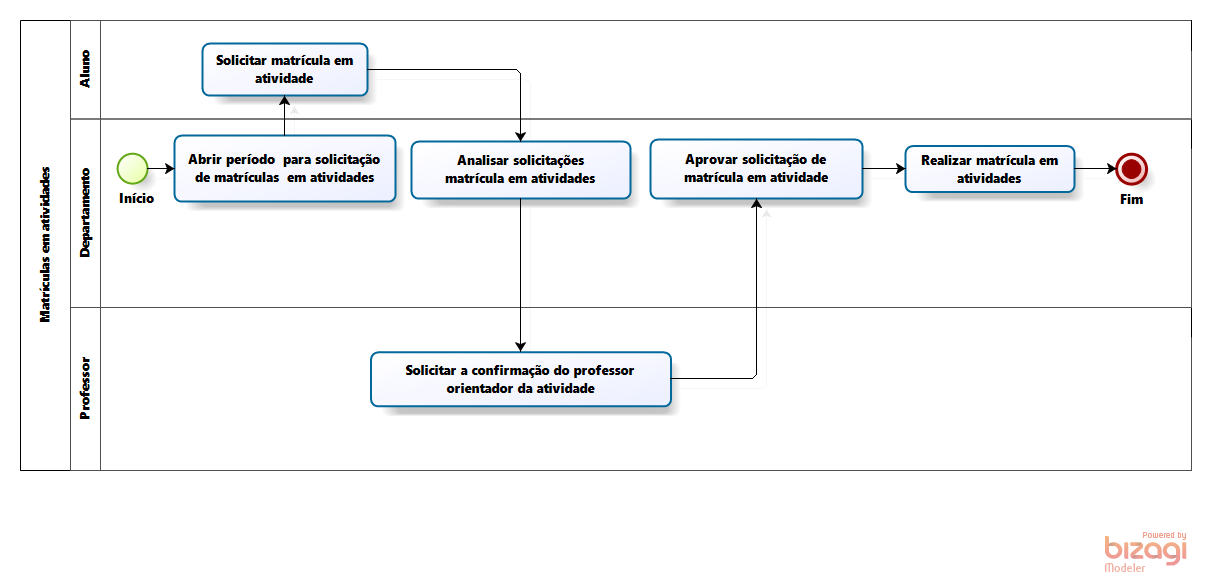
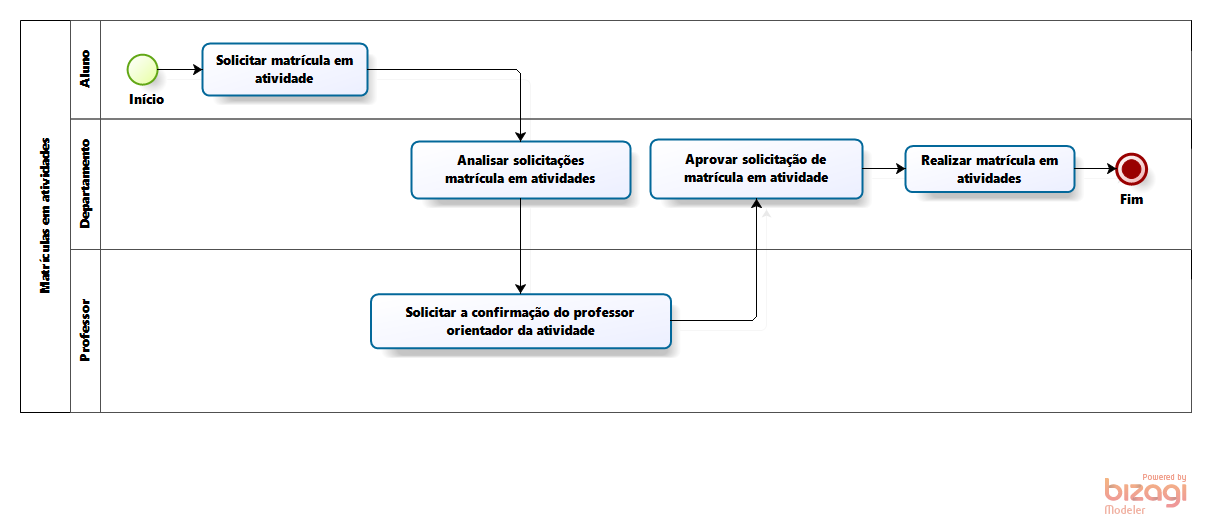
Matriculas_em_Atividades.png atualizados

diff --git a/Publicações do Padrão Bizagi/Matriculas em Atividades/libs/js/json/configuration.json.js b/Publicações do Padrão Bizagi/Matriculas em Atividades/libs/js/json/configuration.json.js
@@ -1,1 +1,1 @@
-Bizagi.AppModel = {"personalized":false,"userLogoName":"\\libs\\img\\biz-ex-logo.png","bizagiUrl":"http://www.bizagi.com","productName":"Bizagi Process Modeler","modelName":"Matriculas em Atividades","publishDate":"29/02/2020 13:44:15","pages":[{"id":"8dcc73be-ff6a-44cc-a4d6-4f25cdb0a2b3","name":"Matriculas em Atividades","version":"1.0","author":"paulo","image":"files\\diagrams\\Matriculas_em_Atividades.png","isSubprocessPage":false,"elements":[{"id":"711a29ae-bf47-441d-a266-ab5a859a9b86","name":"Matrículas em atividades","elementImage":"files\\bpmnElements\\Participant.png","imageBounds":{"points":[{"x":20.0,"y":20.0}],"radius":0.0,"height":450.0,"width":50.0,"shape":"rect"},"elementType":"Participant","pageElements":[{"id":"2e61706a-84ae-4827-a32e-efe2ec13cba5","name":"Início","elementImage":"files\\bpmnElements\\NoneStart.png","imageBounds":{"points":[{"x":117.0,"y":153.0}],"radius":15.0,"height":30.0,"width":30.0,"shape":"circle"},"elementType":"NoneStart"},{"id":"eb6ecca7-1f32-4ce6-aa27-a683042ea824","name":"Abrir período  para solicitação de matrículas  em atividades","elementImage":"files\\bpmnElements\\AbstractTask.png","imageBounds":{"points":[{"x":174.0,"y":135.0}],"radius":0.0,"height":66.0,"width":221.0,"shape":"rect"},"elementType":"AbstractTask","properties":[]},{"id":"35b178d0-e9a5-445c-acb6-52b81ada1f75","name":"Solicitar matrícula em atividade","elementImage":"files\\bpmnElements\\AbstractTask.png","imageBounds":{"points":[{"x":202.0,"y":43.0}],"radius":0.0,"height":52.0,"width":165.0,"shape":"rect"},"elementType":"AbstractTask","properties":[]},{"id":"b79a8099-5816-4b73-b40b-ef277d4dbc19","name":"Analisar solicitações  matrícula em atividades ","elementImage":"files\\bpmnElements\\AbstractTask.png","imageBounds":{"points":[{"x":411.0,"y":141.0}],"radius":0.0,"height":57.0,"width":219.0,"shape":"rect"},"elementType":"AbstractTask","properties":[]},{"id":"62cd2fd7-ce1b-4760-8464-e64a4b4c304f","name":"Solicitar a confirmação do professor orientador da atividade","elementImage":"files\\bpmnElements\\AbstractTask.png","imageBounds":{"points":[{"x":370.5,"y":351.7}],"radius":0.0,"height":54.0,"width":300.0,"shape":"rect"},"elementType":"AbstractTask","properties":[]},{"id":"0bab4fcc-b7ea-4f66-84b6-2894024f2893","name":"Aprovar solicitação de matrícula em atividade  ","elementImage":"files\\bpmnElements\\AbstractTask.png","imageBounds":{"points":[{"x":650.0,"y":139.0}],"radius":0.0,"height":59.0,"width":212.0,"shape":"rect"},"elementType":"AbstractTask","properties":[]},{"id":"0c0ff481-53c2-4ee6-a23c-7fd67c19722f","name":"Realizar matrícula em atividades ","elementImage":"files\\bpmnElements\\AbstractTask.png","imageBounds":{"points":[{"x":905.0,"y":145.5}],"radius":0.0,"height":46.0,"width":169.0,"shape":"rect"},"elementType":"AbstractTask","properties":[]},{"id":"22fa24b9-2bca-4477-a6d0-0cd0f5563562","name":"Fim","elementImage":"files\\bpmnElements\\TerminateEnd.png","imageBounds":{"points":[{"x":1116.0,"y":153.5}],"radius":15.0,"height":30.0,"width":30.0,"shape":"circle"},"elementType":"TerminateEnd","properties":[]},{"id":"a3d3b332-2f28-43a8-b375-a3cacbdfa7c1","name":"Aluno","elementImage":"files\\bpmnElements\\Lane.png","imageBounds":{"points":[{"x":70.0,"y":20.0}],"radius":0.0,"height":98.3,"width":30.0,"shape":"rect"},"elementType":"Lane"},{"id":"7fb381ce-d3da-47ed-afbf-26f62370a5ca","name":"Departamento","elementImage":"files\\bpmnElements\\Lane.png","imageBounds":{"points":[{"x":70.0,"y":118.3}],"radius":0.0,"height":188.7,"width":30.0,"shape":"rect"},"elementType":"Lane"},{"id":"e17dfb08-2560-46f2-8388-4cd49953bf0b","name":"Professor","elementImage":"files\\bpmnElements\\Lane.png","imageBounds":{"points":[{"x":70.0,"y":307.0}],"radius":0.0,"height":163.0,"width":30.0,"shape":"rect"},"elementType":"Lane"}]}]}],"texts":{"tableOfContents":"Índice","pageNumber":"Página","pageNumberLabelOf":"de","version":"Versão","author":"Autor","description":"Descrição","mainPool":"Processo principal","mainPoolDescription":"Processo principal Descrição","processDiagrams":"Processar os Diagramas","processElements":"Elementos do processo","elements":"Elementos do processo","defaultElementName":"Elemento","performers":"Executantes","connectors":"Conectores","connector":"Conector","home":"Principal","search":"Pesquisar","goToParentProcess":"<< Ir para Matriz","visitBizagi":"Visite bizagi.com","contains":"Contém {0} subprocessos","showAll":"Show all","fullScreen":"Tela inteira","zoomIn":"Ampliar","zoomOut":"Reduzir","close":"Fechar","menu":"Menu: ","errorPage":"Erro ao visualizar a página","process":"Proceso","subProcess":"Subprocessos publicados","contain":"Contém","checkAttributes":"Ver atributos","checkOverview":"Ver resumo","unavailableResource":"O recurso não está disponível","localResource":"O recurso pode ser acessado localmente","performer":"Executor","linktoimage":"Link para a  imagem","presentationAction":"Ações de apresentação","searchGlobal":"Busca todos","searchLocal":"Busca neste processo","searchResults":"Nenhum resultado encontrado","titlePage":"Start","emptyElement":"Este elemento ainda não foi documentado","unsupported":"Seu navegador não suporta conteúdo exibido por esta página. <br> Recomendamos que você atualizar o seu navegador.","details":"Detalhes","expand":"Expandir","mainPoolProperties":"Propriedades do Processo principal","cannotVisualize":"The page cannot be displayed","resourceNotFound":"The requested resource was not found:"},"searchMap":[{"containerId":"8dcc73be-ff6a-44cc-a4d6-4f25cdb0a2b3","containerName":"Matriculas em Atividades","isSubprocess":false,"elements":[{"id":"711a29ae-bf47-441d-a266-ab5a859a9b86","value":"Matrículas em atividades"},{"id":"a3d3b332-2f28-43a8-b375-a3cacbdfa7c1","value":"Aluno"},{"id":"7fb381ce-d3da-47ed-afbf-26f62370a5ca","value":"Departamento"},{"id":"e17dfb08-2560-46f2-8388-4cd49953bf0b","value":"Professor"},{"id":"35b178d0-e9a5-445c-acb6-52b81ada1f75","value":"Solicitar matrícula em atividade"},{"id":"b79a8099-5816-4b73-b40b-ef277d4dbc19","value":"Analisar solicitações  matrícula em atividades "},{"id":"2e61706a-84ae-4827-a32e-efe2ec13cba5","value":"Início"},{"id":"eb6ecca7-1f32-4ce6-aa27-a683042ea824","value":"Abrir período  para solicitação de matrículas  em atividades"},{"id":"62cd2fd7-ce1b-4760-8464-e64a4b4c304f","value":"Solicitar a confirmação do professor orientador da atividade"},{"id":"0bab4fcc-b7ea-4f66-84b6-2894024f2893","value":"Aprovar solicitação de matrícula em atividade  "},{"id":"0c0ff481-53c2-4ee6-a23c-7fd67c19722f","value":"Realizar matrícula em atividades "},{"id":"22fa24b9-2bca-4477-a6d0-0cd0f5563562","value":"Fim"}]}]}
+Bizagi.AppModel = {"personalized":false,"userLogoName":"\\libs\\img\\biz-ex-logo.png","bizagiUrl":"http://www.bizagi.com","productName":"Bizagi Process Modeler","modelName":"Matriculas em Atividades","publishDate":"15/04/2020 18:52:10","pages":[{"id":"8dcc73be-ff6a-44cc-a4d6-4f25cdb0a2b3","name":"Matriculas em Atividades","version":"1.0","author":"paulo","image":"files\\diagrams\\Matriculas_em_Atividades.png","isSubprocessPage":false,"elements":[{"id":"711a29ae-bf47-441d-a266-ab5a859a9b86","name":"Matrículas em atividades","elementImage":"files\\bpmnElements\\Participant.png","imageBounds":{"points":[{"x":20.0,"y":20.0}],"radius":0.0,"height":392.0,"width":50.0,"shape":"rect"},"elementType":"Participant","pageElements":[{"id":"35b178d0-e9a5-445c-acb6-52b81ada1f75","name":"Solicitar matrícula em atividade","elementImage":"files\\bpmnElements\\AbstractTask.png","imageBounds":{"points":[{"x":202.0,"y":43.0}],"radius":0.0,"height":52.0,"width":165.0,"shape":"rect"},"elementType":"AbstractTask","properties":[]},{"id":"b79a8099-5816-4b73-b40b-ef277d4dbc19","name":"Analisar solicitações  matrícula em atividades ","elementImage":"files\\bpmnElements\\AbstractTask.png","imageBounds":{"points":[{"x":411.0,"y":141.0}],"radius":0.0,"height":57.0,"width":219.0,"shape":"rect"},"elementType":"AbstractTask","properties":[]},{"id":"2e61706a-84ae-4827-a32e-efe2ec13cba5","name":"Início","elementImage":"files\\bpmnElements\\NoneStart.png","imageBounds":{"points":[{"x":127.0,"y":54.0}],"radius":15.0,"height":30.0,"width":30.0,"shape":"circle"},"elementType":"NoneStart"},{"id":"62cd2fd7-ce1b-4760-8464-e64a4b4c304f","name":"Solicitar a confirmação do professor orientador da atividade","elementImage":"files\\bpmnElements\\AbstractTask.png","imageBounds":{"points":[{"x":370.5,"y":293.7}],"radius":0.0,"height":54.0,"width":300.0,"shape":"rect"},"elementType":"AbstractTask","properties":[]},{"id":"0bab4fcc-b7ea-4f66-84b6-2894024f2893","name":"Aprovar solicitação de matrícula em atividade  ","elementImage":"files\\bpmnElements\\AbstractTask.png","imageBounds":{"points":[{"x":650.0,"y":139.0}],"radius":0.0,"height":59.0,"width":212.0,"shape":"rect"},"elementType":"AbstractTask","properties":[]},{"id":"0c0ff481-53c2-4ee6-a23c-7fd67c19722f","name":"Realizar matrícula em atividades ","elementImage":"files\\bpmnElements\\AbstractTask.png","imageBounds":{"points":[{"x":905.0,"y":145.5}],"radius":0.0,"height":46.0,"width":169.0,"shape":"rect"},"elementType":"AbstractTask","properties":[]},{"id":"22fa24b9-2bca-4477-a6d0-0cd0f5563562","name":"Fim","elementImage":"files\\bpmnElements\\TerminateEnd.png","imageBounds":{"points":[{"x":1116.0,"y":153.5}],"radius":15.0,"height":30.0,"width":30.0,"shape":"circle"},"elementType":"TerminateEnd","properties":[]},{"id":"a3d3b332-2f28-43a8-b375-a3cacbdfa7c1","name":"Aluno","elementImage":"files\\bpmnElements\\Lane.png","imageBounds":{"points":[{"x":70.0,"y":20.0}],"radius":0.0,"height":98.3,"width":30.0,"shape":"rect"},"elementType":"Lane"},{"id":"7fb381ce-d3da-47ed-afbf-26f62370a5ca","name":"Departamento","elementImage":"files\\bpmnElements\\Lane.png","imageBounds":{"points":[{"x":70.0,"y":118.3}],"radius":0.0,"height":130.7,"width":30.0,"shape":"rect"},"elementType":"Lane"},{"id":"e17dfb08-2560-46f2-8388-4cd49953bf0b","name":"Professor","elementImage":"files\\bpmnElements\\Lane.png","imageBounds":{"points":[{"x":70.0,"y":249.0}],"radius":0.0,"height":163.0,"width":30.0,"shape":"rect"},"elementType":"Lane"}]}]}],"texts":{"tableOfContents":"Índice","pageNumber":"Página","pageNumberLabelOf":"de","version":"Versão","author":"Autor","description":"Descrição","mainPool":"Processo principal","mainPoolDescription":"Processo principal Descrição","processDiagrams":"Processar os Diagramas","processElements":"Elementos do processo","elements":"Elementos do processo","defaultElementName":"Elemento","performers":"Executantes","connectors":"Conectores","connector":"Conector","home":"Principal","search":"Pesquisar","goToParentProcess":"<< Ir para Matriz","visitBizagi":"Visite bizagi.com","contains":"Contém {0} subprocessos","showAll":"Show all","fullScreen":"Tela inteira","zoomIn":"Ampliar","zoomOut":"Reduzir","close":"Fechar","menu":"Menu: ","errorPage":"Erro ao visualizar a página","process":"Proceso","subProcess":"Subprocessos publicados","contain":"Contém","checkAttributes":"Ver atributos","checkOverview":"Ver resumo","unavailableResource":"O recurso não está disponível","localResource":"O recurso pode ser acessado localmente","performer":"Executor","linktoimage":"Link para a  imagem","presentationAction":"Ações de apresentação","searchGlobal":"Busca todos","searchLocal":"Busca neste processo","searchResults":"Nenhum resultado encontrado","titlePage":"Start","emptyElement":"Este elemento ainda não foi documentado","unsupported":"Seu navegador não suporta conteúdo exibido por esta página. <br> Recomendamos que você atualizar o seu navegador.","details":"Detalhes","expand":"Expandir","mainPoolProperties":"Propriedades do Processo principal","cannotVisualize":"The page cannot be displayed","resourceNotFound":"The requested resource was not found:"},"searchMap":[{"containerId":"8dcc73be-ff6a-44cc-a4d6-4f25cdb0a2b3","containerName":"Matriculas em Atividades","isSubprocess":false,"elements":[{"id":"711a29ae-bf47-441d-a266-ab5a859a9b86","value":"Matrículas em atividades"},{"id":"a3d3b332-2f28-43a8-b375-a3cacbdfa7c1","value":"Aluno"},{"id":"7fb381ce-d3da-47ed-afbf-26f62370a5ca","value":"Departamento"},{"id":"e17dfb08-2560-46f2-8388-4cd49953bf0b","value":"Professor"},{"id":"35b178d0-e9a5-445c-acb6-52b81ada1f75","value":"Solicitar matrícula em atividade"},{"id":"b79a8099-5816-4b73-b40b-ef277d4dbc19","value":"Analisar solicitações  matrícula em atividades "},{"id":"2e61706a-84ae-4827-a32e-efe2ec13cba5","value":"Início"},{"id":"62cd2fd7-ce1b-4760-8464-e64a4b4c304f","value":"Solicitar a confirmação do professor orientador da atividade"},{"id":"0bab4fcc-b7ea-4f66-84b6-2894024f2893","value":"Aprovar solicitação de matrícula em atividade  "},{"id":"0c0ff481-53c2-4ee6-a23c-7fd67c19722f","value":"Realizar matrícula em atividades "},{"id":"22fa24b9-2bca-4477-a6d0-0cd0f5563562","value":"Fim"}]}]}
